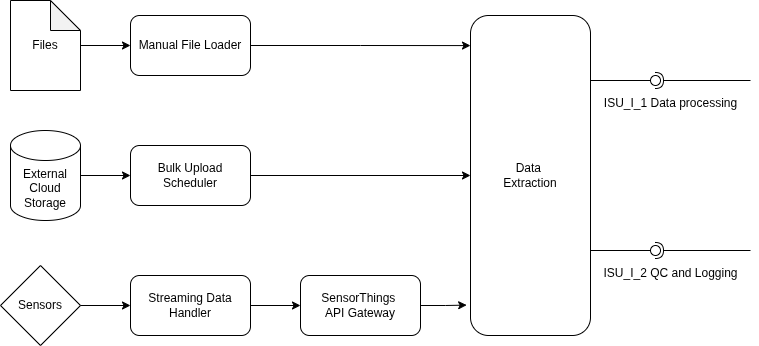
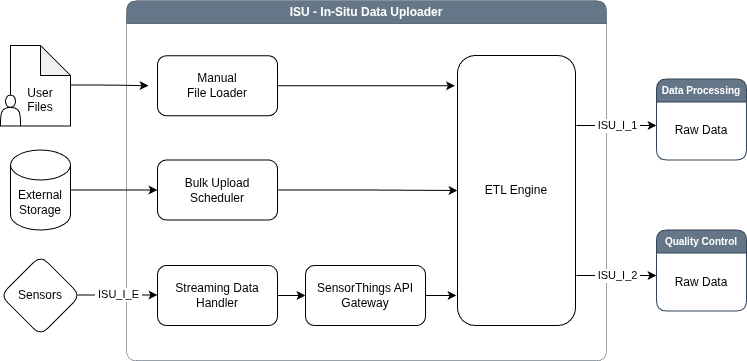
Readme: update architecture diagrams and subsystems overview based on D5.1 (#203)
* update existing subsystems

* add missing subsystems (imgs)

* update readmes

* fix syntax typo

* isu updated

* section+ Sub-system

diff --git a/subsystems/qcl/README.md b/subsystems/qcl/README.md
@@ -1,37 +1,49 @@
-# GAIA-TSF: Quality Control and Logging Layer (QCL)
+# Quality Control and Logging Layer (QCL) Sub-system
 
-## 📖 Overview
-The Quality Control and Logging Layer (QCL) is the "Data Gatekeeper" for GAIA-TSF. It is located in the `subsystems/qcl/` directory. 
+The **Quality Control Layer** serves as the critical validation gatekeeper
+within the GAIA-TSF monitoring architecture, situated between the
+ingestion/ETL processes and the Spatial Data Infrastructure (SDI)
+storage. Its primary function is to enforce established quality
+standards across all incoming data streams, ensuring that only
+reliable and traceable data supports the downstream analytics and
+decision-making modules. This layer automates the verification of data
+integrity through specific checks—such as validating physical ranges
+for pH levels in water quality data or assessing cloud cover
+percentages in satellite imagery—and logs the lineage of every dataset
+to maintain a complete audit trail. By combining automated metric
+calculation with mechanisms for manual review and error alerting, the
+system guarantees high-fidelity inputs for predictive modeling and
+risk assessment.
 
-Its job is to validate all data (In-Situ and Earth Observation) before it is saved or analyzed. It ensures the system only uses high-quality, realistic data.
+Its job is to validate all data (In-Situ and Earth Observation) before
+it is saved or analyzed. It ensures the system only uses high-quality,
+realistic data.
 
+![Quality Control and Logging Layer Architecture](../../images/qcl_subsystem.png)
 
-
-## ✨ Key Features
+## Key Features
 * **Automated QC**: Runs real-time checks using the `qc_layer.check()` method.
 * **Status Tagging**: Automatically marks datasets as `Pass`, `Warn`, or `Fail`.
 * **Data Lineage**: Keeps a permanent record of all checks for safety audits.
 * **Smart Metadata Validation**: Checks for missing fields in EO data and triggers warnings.
 
-## 🏗 Folder Structure
+## Folder Structure
 * `__init__.py`: Provides the **`QCLayer`** alias for easy importing.
 * `layer.py`: Contains the **`QualityControlLoggingLayer`** class and core logic.
 * `README.md`: This documentation file.
 
-## 🔌 Interfaces
+## Interfaces
 * **Input**: Intercepts DataFrames from `ISU` (In-Situ) and `EOU` (Earth Observation).
 * **Output**: Sends verified data to the SDI and alerts to the Notification system.
 
----
-
-## 🚀 Quick Start Example
+## Usage
 
 This example shows the standard way to use the QCL, matching the logic in our unit tests.
 
 ```python
 import pandas as pd
 # 1. Import the QCLayer alias
-from .qcl import QCLayer 
+from subsystem.qcl import QCLayer 
 
 # 2. Initialize the component as 'qc_layer'
 qc_layer = QCLayer()
@@ -54,5 +66,6 @@ result = qc_layer.check(
 
 # 5. Handle the result
 if result['final_status'] == 'Fail':
-    print(f"❌ Data Rejected! Errors: {result['errors']}")
+    print(f"Data Rejected! Errors: {result['errors']}")
     # Expected: "pH values out of 0-14..."
+```

diff --git a/subsystems/dag/README.md b/subsystems/dag/README.md
@@ -1,12 +1,16 @@
-# GAIA-TSF – Data Aggregation (DAG) Subsystem
+# Data Aggregation (DAG) Sub-system
 
-## Overview
+The **Data Aggregation** sub-system serves as the critical
+processing bridge that transforms harmonised data stored within the
+Spatial Data Infrastructure (SDI) into structured inputs suitable for
+machine learning analysis. Its primary function is to prepare data in
+structures that are harmonised and ready for downstream consumption,
+adhering to the principle that "garbage in, garbage out" dictates
+model performance. The sub-system ingests multi-temporal satellite
+image stacks (e.g., Sentinel-2) and co-located in-situ measurements
+(e.g., pH, pore pressure) to produce model-ready feature tensors.
 
-The **Data Aggregation (DAG) subsystem** integrates multi-temporal Earth Observation (EO) and auxiliary data into **analysis-ready, machine learning–compatible datasets**.
-
-It serves as a **feature abstraction layer** between raw EO data (Sentinel-1, Sentinel-2) and the MAP (Modeling and Prediction) subsystem.
-
----
+![Data Agregation Architecture](../../images/dag_subsystem.png)
 
 ## Key Capabilities
 
@@ -23,8 +27,6 @@ It serves as a **feature abstraction layer** between raw EO data (Sentinel-1, Se
 - Validation and consistency checks
 - Tensorization into ML-ready formats `(T, H, W, C)`
 
----
-
 ## Inputs
 
 - **Slope Stability (KV1)**
@@ -36,8 +38,6 @@ It serves as a **feature abstraction layer** between raw EO data (Sentinel-1, Se
   - AOI polygon
   - Water mask
 
----
-
 ## Outputs
 
 - ML-ready tensors:
@@ -46,8 +46,6 @@ It serves as a **feature abstraction layer** between raw EO data (Sentinel-1, Se
   - velocity, acceleration (slope stability)
   - AMD index and spectral features
 - Ready for probabilistic anomaly detection (MAP subsystem)
-
----
 
 ## Architecture
 

diff --git a/subsystems/isu/README.md b/subsystems/isu/README.md
@@ -1,14 +1,14 @@
-# GAIA-TSF: In-Situ Data Uploader (ISU) Subsystem
+# In-Situ Data Uploader (ISU) Sub-system
 
-## Overview
-
-The In-Situ Data Uploader (ISU) is the core data ingestion hub for the GAIA-TSF platform. It is responsible for securely and efficiently collecting geotechnical and environmental data from physical sensors, external FTP directories, and high-frequency real-time data streams.
+The **In-Situ Data Uploader** is the core data ingestion hub for the GAIA-TSF platform. It is responsible for securely and efficiently collecting geotechnical and environmental data from physical sensors, external FTP directories, and high-frequency real-time data streams.
 
 ISU employs a highly concurrent, decoupled modern architecture. All ingestion endpoints operate in parallel and converge at the central ETL Engine for standardized parsing and preliminary cleaning.
 
 ## Architecture Design
 
 ISU strictly adheres to the D5.1 Architecture Specification, utilizing the Facade and Factory design patterns to ensure maximum decoupling.
+
+![In-Situ Data Uploader Architecture](../../images/isu_subsystem.png)
 
 The core module consists of a main orchestrator (Facade) and four sub-engines:
 
@@ -86,7 +86,5 @@ isu:
 To run the tests, execute the following command in your terminal:
 
 ```bash
-python -m pytest subsystems/isu/tests/ -v -p no:cacheprovider --basetemp=test_tmp
+docker exec gaiatesting python3 -m pytest subsystems/isu/tests/ -v -p no:cacheprovider --basetemp=test_tmp
 ```
-
-![In-Situ Data Uploader Architecture](../../images/isu_subsystem.png)

diff --git a/subsystems/sdi/README.md b/subsystems/sdi/README.md
@@ -1,5 +1,23 @@
-# Spatial-Data-Infrastructure
-Central repository for spatial and temporal datasets with geospatial services.
+# Spatial Data Infrastructure (SDI) Sub-system
+
+The **Spatial Data Infrastructure** serves as the core data management
+system for the architecture, responsible for the storage,
+organization, and retrieval of all geospatial and monitoring data. Its
+primary function is to store harmonized Earth Observation (EO) and
+in-situ data, along with their associated metadata, in a structured
+environment that facilitates efficient access by downstream analytics
+and visualization sub-systems. The SDI creates a unified data layer
+that supports both public and private data access, ensuring that raw
+data is preserved for backup purposes while harmonized datasets are
+made readily available for processing. It leverages standard protocols
+such as the SpatioTemporal Asset Catalog (STAC) to index data,
+allowing systems to easily query and locate relevant datasets based on
+time and location. Additionally, the SDI provides specific APIs for
+handling different data types, including coverages for raster data and
+PostGIS for vector data, ensuring optimizing handling of diverse
+monitoring inputs.
+
+![Spatial Data Infrastructure Architecture](../../images/sdi_subsystem.png)
 
 ## Infrastructure
 

diff --git a/subsystems/ntf/README.md b/subsystems/ntf/README.md
@@ -1,3 +1,22 @@
-# Notifications
+# Notifications (NTF) Sub-system
 
-Disseminates system alerts and updates through email, SMS, API, or internal messaging.
+The **Notification** sub-system is designed to serve as the
+final link in the monitoring chain, ensuring that critical
+intelligence generated by the platform reaches operational
+stakeholders in a timely manner. Its primary function is to bridge the
+gap between the internal Alert and Decision Support Engine and the
+physical devices of end-users. This is achieved by monitoring a
+message queue for incoming alert packages and utilizing cloud-based
+messaging infrastructure to push these notifications to a dedicated
+mobile application. Beyond simple message delivery, the sub-system
+provides situational awareness through a mobile interface that
+categorizes alert severity using intuitive color coding (e.g., green,
+yellow, and red) allowing operators to instantly assess the urgency of
+a situation. Furthermore, the sub-system includes a management layer
+that enables users to customize their alerting preferences, such as
+defining specific areas of interest and setting frequency limits,
+ensuring that notifications remain relevant and actionable.
+
+![Notifications Architecture](../../images/ntf_subsystem.png)
+
+## Usage

diff --git a/subsystems/map/README.md b/subsystems/map/README.md
@@ -1,12 +1,18 @@
-# Machine-Learning-Predictive-Analytics
+# Machine Learning Predictive Analytics (MAP) Sub-system
 
 Trend detection, anomaly analysis, and dynamic risk scoring.
 
-The Machine Learning  Predictive Analytics sub-system functions as the core intelligence engine of the GAIA-TSF architecture, responsible for transforming historical and current monitoring data into actionable predictive insights (trend, anomaly, and risk scoring). The sub-system is designed to execute comprehensive modeling workflows that include data ingestion, feature engineering, model training, inference, and output results upload.
+The **Machine Learning Predictive Analytics** sub-system functions as
+the core intelligence engine of the GAIA-TSF architecture, responsible
+for transforming historical and current monitoring data into
+actionable predictive insights (trend, anomaly, and risk scoring). The
+sub-system is designed to execute comprehensive modeling workflows
+that include data ingestion, feature engineering, model training,
+inference, and output results upload.
 
 ![ML Predictive Analytics](../../images/map_subsystem.png)
 
-## Deployment
+## Usage
 
 Prepare synthetic data of slope stability:
 

diff --git a/subsystems/dpr/README.md b/subsystems/dpr/README.md
@@ -1,8 +1,8 @@
-# Data Processing
+# Data Processing (DPR) Sub-system
 
-The **Data Processing sub-system** serves as the central refinement engine
-of the architecture, responsible for transforming raw inputs into
-standardized, analysis-ready information products. It encompasses
+The **Data Processing** sub-system serves as the central refinement
+engine of the architecture, responsible for transforming raw inputs
+into standardized, analysis-ready information products. It encompasses
 three primary functional areas: metadata management, data
 preprocessing, and advanced data analysis. The sub-system ensures that
 all ingested data—whether from satellite imagery or in-situ
@@ -12,6 +12,9 @@ implementing modular pipelines, the system allows for the flexible
 application of specific processing chains, such as atmospheric
 correction for Earth Observation data or harmonized formatting for
 sensor logs, ensuring compatibility with the Spatial Data
-Infrastructure (SDI) and downstream Machine Learning (MAP) sub-systems.
+Infrastructure (SDI) and downstream Machine Learning (MAP)
+sub-systems.
 
 ![Data Processor Architecture](../../images/dpr_subsystem.png)
+
+## Usage

diff --git a/subsystems/rep/README.md b/subsystems/rep/README.md
@@ -1,3 +1,16 @@
-# Reporting-Compliance
+# Reporting Compliance (REP) Sub-system
 
-Produces structured compliance reports, summaries, and audit-ready data exports.
+The **Reporting and Compliance** sub-system serves as the formal
+output engine of the GAIA-TSF architecture, transforming complex
+analytical data into actionable and legally referenceable
+documentation. Its primary function is to automatically synthesize
+data from upstream sub-systems, specifically the Machine Learning and
+Predictive Analytics modules and the SDI, into standardized
+reports. This process involves distinct creators for maps, graphs, and
+tables, which individually process ML outputs (such as prediction
+maps, anomaly scores, and time-series trends) before a central
+Document Creator assembles them into a cohesive PDF file.
+
+![Reporting Compliance Architecture](../../images/rep_subsystem.png)
+
+## Usage

diff --git a/subsystems/ale/README.md b/subsystems/ale/README.md
@@ -1,3 +1,15 @@
-# Alert-Decision-Support-Engine
+# Alert Decision Support Engine (ALE) Sub-system
 
-Performs threshold checks, evaluates risk scores, and generates tiered alerts.
+The **Alert and Decision Support Engine** continuously processes
+information from the SDI sub-system, which provides outputs from
+machine learning models such as time series trend analyses,
+deformation rates, vegetation and land cover changes, and predictions
+of water and soil chemical properties. The ALE evaluates these data to
+determine whether conditions at a TSF are normal or indicative of an
+anomaly or risk. When a threshold is exceeded or an unusual pattern is
+detected, the engine categorizes the severity and sends alerts to the
+notification system for dissemination to relevant stakeholders.
+
+![Alert Decision Support Engine Architecture](../../images/ale_subsystem.png)
+
+## Usage

diff --git a/subsystems/vid/README.md b/subsystems/vid/README.md
@@ -1,3 +1,15 @@
-# Visualisation-Dashboard
+# Visualisation Dashboard (VID) Sub-system
 
-Allows user interaction with maps, time-series graphs, alerts, and analytics outputs.
+The **Visualization and Dashboard** sub-system serves as the primary
+user interface for the GAIA-TSF platform, designed to present the
+analytical outputs of the machine learning and monitoring sub-systems
+to end-users. Its core function is to visualize the results of
+continuous data processing, focusing on statistical insights and the
+spatial representation of alert situations rather than controlling the
+processing workflow itself. The system is split into two main
+functional areas: a web application for general users and a monitoring
+dashboard for administrators and developers.
+
+![Visualisation Dashboard Architecture](../../images/vid_subsystem.png)
+
+## Usage

diff --git a/subsystems/eou/README.md b/subsystems/eou/README.md
@@ -1,4 +1,4 @@
-# Earth Observation Data Uploader
+# Earth Observation Data Uploader (EOU) Sub-system
 
 The **Earth Observation Data Uploader** sub-system is designed to manage
 the acquisition of satellite imagery from both public and restricted
@@ -18,7 +18,7 @@ downloads relevant imagery based on predefined criteria. All ingested
 data is subsequently passed to the **Data Extraction** logic for
 validation and integration into the processing pipeline.
 
--![EO Data Uploader Architecture](../../images/eou_subsystem.png)
+![EO Data Uploader Architecture](../../images/eou_subsystem.png)
 
 ## Usage
 
